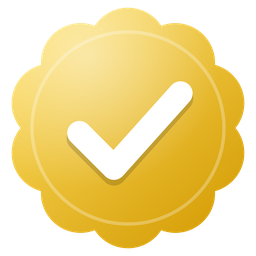
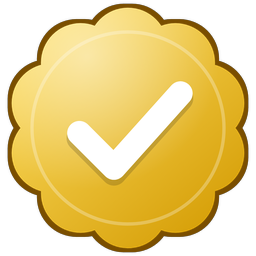
Show only the top badge; gold badge gets a dark outline
Claude-Session: https://claude.ai/code/session_01X84Ttv2GNt1drwSPj32bYF

Changed region(s): [[0.0, 0.0, 1.0, 1.0]]

diff --git a/app/lib/widgets.dart b/app/lib/widgets.dart
@@ -220,7 +220,6 @@ class ProviderCard extends StatelessWidget {
                   Flexible(child: Text(shortName((p['name'] ?? '').toString()), maxLines: 1, overflow: TextOverflow.ellipsis, style: const TextStyle(fontSize: 16, fontWeight: FontWeight.w700))),
                   const SizedBox(width: 6),
                   TierBadge(p: p),
-                  if (p['verified'] == true && Meta.tierOfProvider(p).isNotEmpty) Padding(padding: const EdgeInsetsDirectional.only(start: 4), child: GestureDetector(onTap: () => trustSheet(context, p), child: const Icon(Icons.verified_rounded, color: C.blue, size: 18))),
                 ]),
                 const SizedBox(height: 2),
                 Text(services, maxLines: 1, overflow: TextOverflow.ellipsis, style: const TextStyle(color: C.mute, fontSize: 13)),
@@ -273,7 +272,6 @@ class ProviderGridCard extends StatelessWidget {
               Flexible(child: Text(shortName((p['name'] ?? '').toString()), maxLines: 1, overflow: TextOverflow.ellipsis, style: const TextStyle(fontSize: 14, fontWeight: FontWeight.w700))),
               const SizedBox(width: 4),
               TierBadge(p: p, size: 18),
-              if (p['verified'] == true && Meta.tierOfProvider(p).isNotEmpty) Padding(padding: const EdgeInsetsDirectional.only(start: 2), child: GestureDetector(onTap: () => trustSheet(context, p), child: const Icon(Icons.verified_rounded, color: C.blue, size: 16))),
             ]),
             const SizedBox(height: 2),
             Text(services, maxLines: 1, overflow: TextOverflow.ellipsis, textAlign: TextAlign.center, style: const TextStyle(color: C.mute, fontSize: 12)),

diff --git a/app/lib/screens/provider.dart b/app/lib/screens/provider.dart
@@ -169,7 +169,6 @@ class _ProviderScreenState extends State<ProviderScreen> {
               Flexible(child: Text(p['name'] ?? '', style: const TextStyle(fontSize: 20, fontWeight: FontWeight.w700))),
               const SizedBox(width: 6),
               TierBadge(p: p, size: 26),
-              if (p['verified'] == true && tier.isNotEmpty) Padding(padding: const EdgeInsetsDirectional.only(start: 4), child: GestureDetector(onTap: () => trustSheet(context, p), child: const Icon(Icons.verified_rounded, color: C.blue, size: 22))),
             ]),
             if (tier.isNotEmpty || p['verified'] == true)
               GestureDetector(
